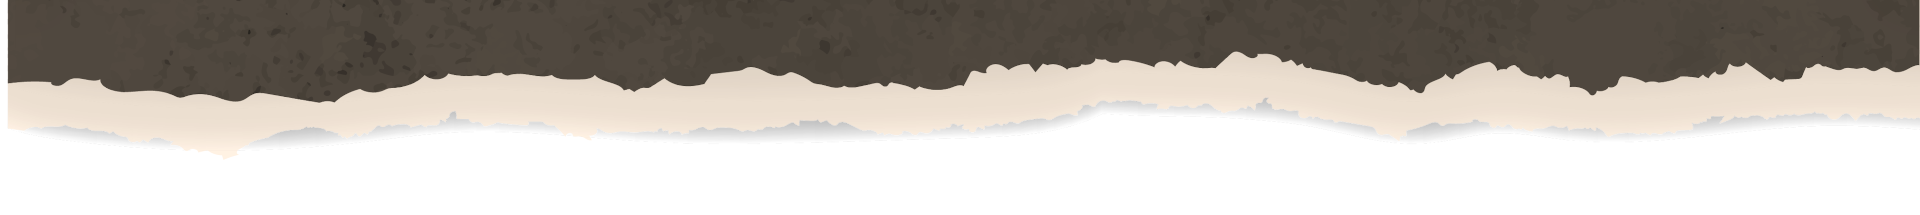
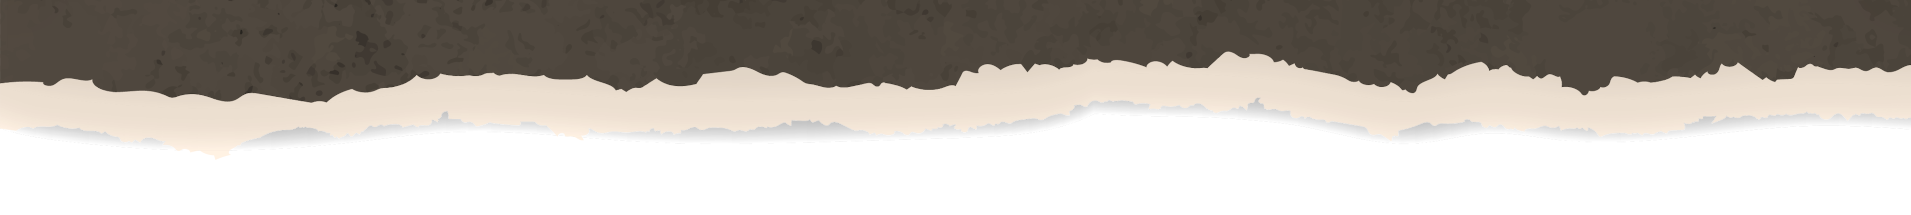
Fix guards

diff --git a/css/styles.css b/css/styles.css
@@ -177,7 +177,7 @@ footer p {
     width: 100%;  
     height: 80px;
     background-image: url('../img/hoja-01.png');
-    /* background-repeat: repeat-x; */
+    background-repeat: round;
     background-size: 1920px 80px;
 }
 
@@ -185,8 +185,8 @@ footer p {
     position: absolute;
     width: 100%;  
     height: 200px;
-    background-image: url('../img/hoja-02.png.png');
-    /* background-repeat: repeat-x; */
+    background-image: url('../img/hoja-02.png');
+    background-repeat: round;
     background-size: 1920px 200px;
 }
 
